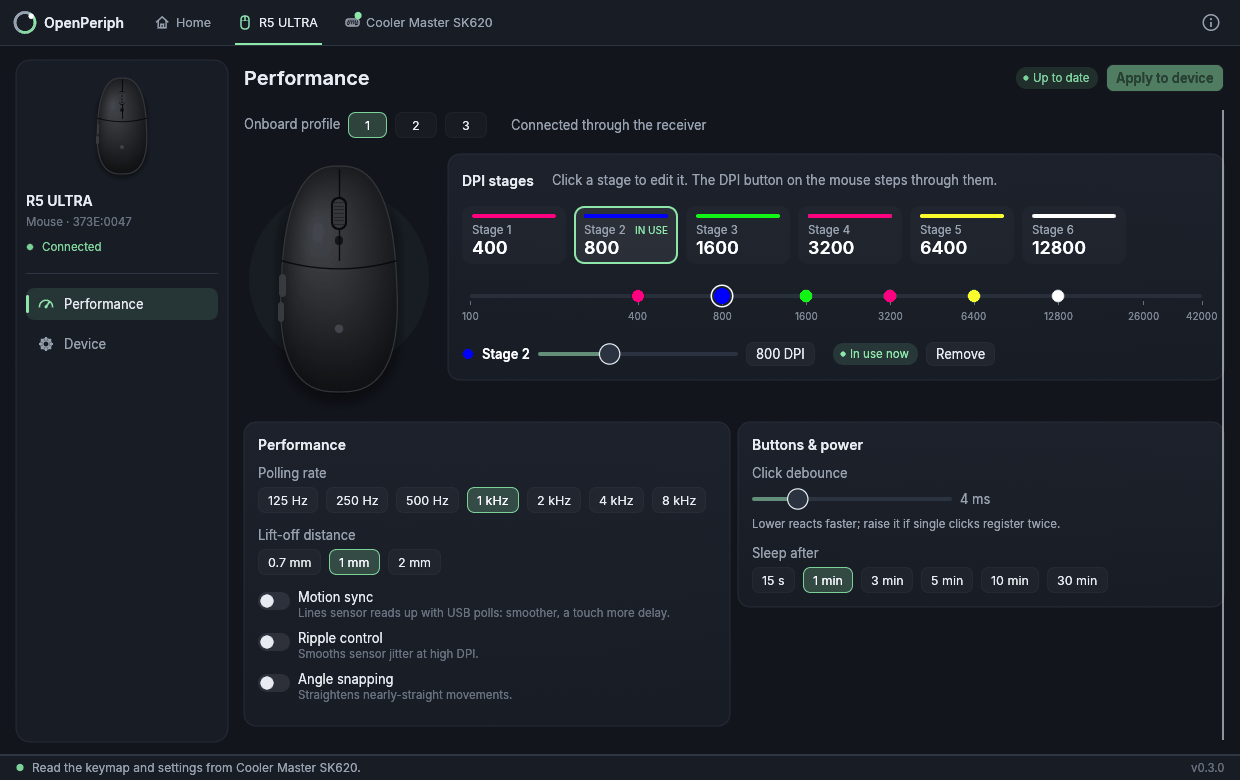
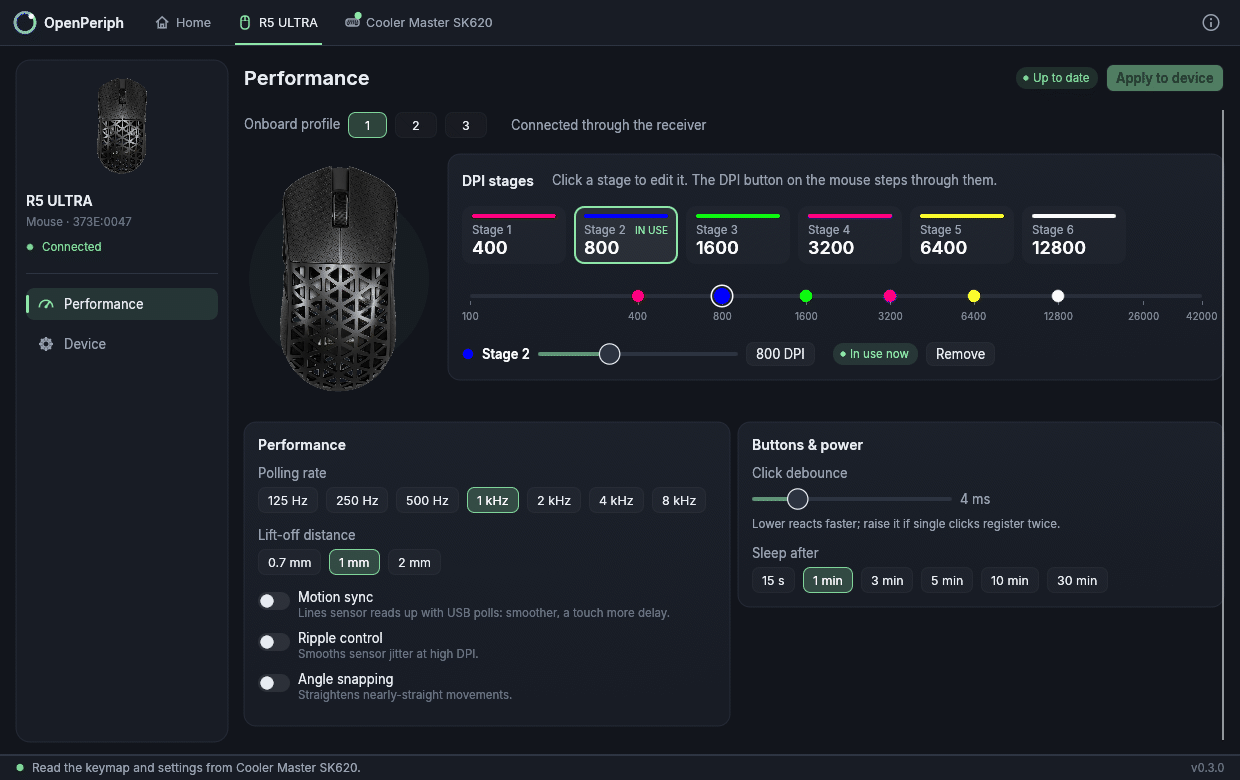
Use a photo of the R5 ULTRA instead of the drawing
Product photo with the white background removed (also through the shell's holes), bundled in
assets/devices and used wherever the mouse is shown, unless you pick your own photo.

Claude-Session: https://claude.ai/code/session_01DgkXHx1UEjKkGhSzFn2nf5

Changed region(s): [[0.2145, 0.2154, 0.3371, 0.5231], [0.0613, 0.1231, 0.1226, 0.2154]]

diff --git a/src/app/shell.rs b/src/app/shell.rs
@@ -29,6 +29,16 @@ impl Pictures {
         self.loaded.entry(name.to_string()).or_insert_with(|| store::picture(name).and_then(|p| theme::load_texture(ctx, &p).ok())).clone()
     }
 
+    /// A photo that comes with the app, for devices that have one.
+    pub fn bundled(&mut self, ctx: &egui::Context, id: &str) -> Option<egui::TextureHandle> {
+        let bytes: &'static [u8] = match id {
+            "attack-shark-r5-ultra" => include_bytes!("../../assets/devices/attack-shark-r5-ultra.png"),
+            _ => return None,
+        };
+        let key = format!("bundled-{id}");
+        self.loaded.entry(key.clone()).or_insert_with(|| theme::texture_from_bytes(ctx, &key, bytes)).clone()
+    }
+
     pub fn forget(&mut self, name: &str) {
         self.loaded.remove(name);
     }
@@ -386,7 +396,7 @@ impl OpenPeriphApp {
         let mut clear = false;
         theme::card(ui, |ui| {
             ui.label(title("Picture"));
-            ui.label(dim("How this device is shown. The drawing is made from its layout; you can use a photo of yours instead."));
+            ui.label(dim("How this device is shown. You can use a photo of your own instead."));
             ui.add_space(8.0);
             ui.horizontal_top(|ui| {
                 let (r, _) = ui.allocate_exact_size(Vec2::new(300.0, 150.0), Sense::hover());
@@ -398,7 +408,7 @@ impl OpenPeriphApp {
                     if ui.button("Use a photo…").clicked() {
                         pick = true;
                     }
-                    if ui.add_enabled(has_photo, egui::Button::new("Use the drawing")).clicked() {
+                    if ui.add_enabled(has_photo, egui::Button::new("Use the default")).clicked() {
                         clear = true;
                     }
                     ui.add_space(4.0);
@@ -426,10 +436,14 @@ impl OpenPeriphApp {
     // -----------------------------------------------------------------------------------------
     // Pictures of the hardware
 
-    /// A photo of the device if you chose one, otherwise a drawing of it.
+    /// A photo of the device if you chose one, otherwise the bundled photo or a drawing of it.
     pub(super) fn device_art(&mut self, ctx: &egui::Context, p: &egui::Painter, i: usize, rect: Rect, legends: bool) {
         let id = self.devices[i].driver.info().id.clone();
         if let Some(tex) = self.pictures.get(ctx, &photo_name(&id)) {
+            theme::photo(p, rect, &tex);
+            return;
+        }
+        if let Some(tex) = self.pictures.bundled(ctx, &id) {
             theme::photo(p, rect, &tex);
             return;
         }

diff --git a/src/app/theme.rs b/src/app/theme.rs
@@ -473,6 +473,13 @@ fn load_picture(path: &std::path::Path, max: u32) -> Result<(usize, usize, Vec<[
     Ok((w, h, rgb.pixels().map(|p| [lin(p[0]), lin(p[1]), lin(p[2])]).collect()))
 }
 
+/// A picture from memory (bundled with the app) as a texture.
+pub fn texture_from_bytes(ctx: &egui::Context, name: &str, bytes: &[u8]) -> Option<TextureHandle> {
+    let rgba = image::load_from_memory(bytes).ok()?.to_rgba8();
+    let image = egui::ColorImage::from_rgba_unmultiplied([rgba.width() as usize, rgba.height() as usize], rgba.as_raw());
+    Some(ctx.load_texture(name, image, TextureOptions::LINEAR))
+}
+
 /// A picture to show as a texture (for photos of devices).
 pub fn load_texture(ctx: &egui::Context, path: &std::path::Path) -> Result<TextureHandle, String> {
     let img = image::open(path).map_err(|e| format!("Couldn't read {}: {e}", path.display()))?;

diff --git a/CHANGELOG.md b/CHANGELOG.md
@@ -12,7 +12,7 @@ version, and the section becomes the release notes on GitHub.
 - A tab for each plugged-in device along the top, and a Home page with a card for each one.
 - Each device has its own navigation (Keymap, Lighting, Macros, Performance, Device) with a
   picture of it: drawn from its real key layout (in its current lighting colour for QMK
-  keyboards), or a photo of your own (Device page → Picture).
+  keyboards), a photo of the R5 ULTRA, or a photo of your own (Device page → Picture).
 - Appearance (About page): plain, faint smoke, or a picture of your own behind the panels.
 - Firmware updates: asks whether to update when newer SK620 firmware is out, with the release
   notes. The Device page shows one status line (installed → latest) and one Update button; the

diff --git a/docs/development.md b/docs/development.md
@@ -72,5 +72,7 @@ Ordinary pushes are only built, never released. To release the version that's al
 
 - [Inter](https://rsms.me/inter/) typeface by Rasmus Andersson, under the SIL Open Font Licence
   (`assets/fonts/Inter-LICENSE.txt`).
+- The Attack Shark R5 ULTRA photo (`assets/devices/`) is Attack Shark's product photo, with the
+  background removed.
 - The QMK/VIA support follows QMK's own source. The device protocols credit their sources in
   `docs/protocols/`.
